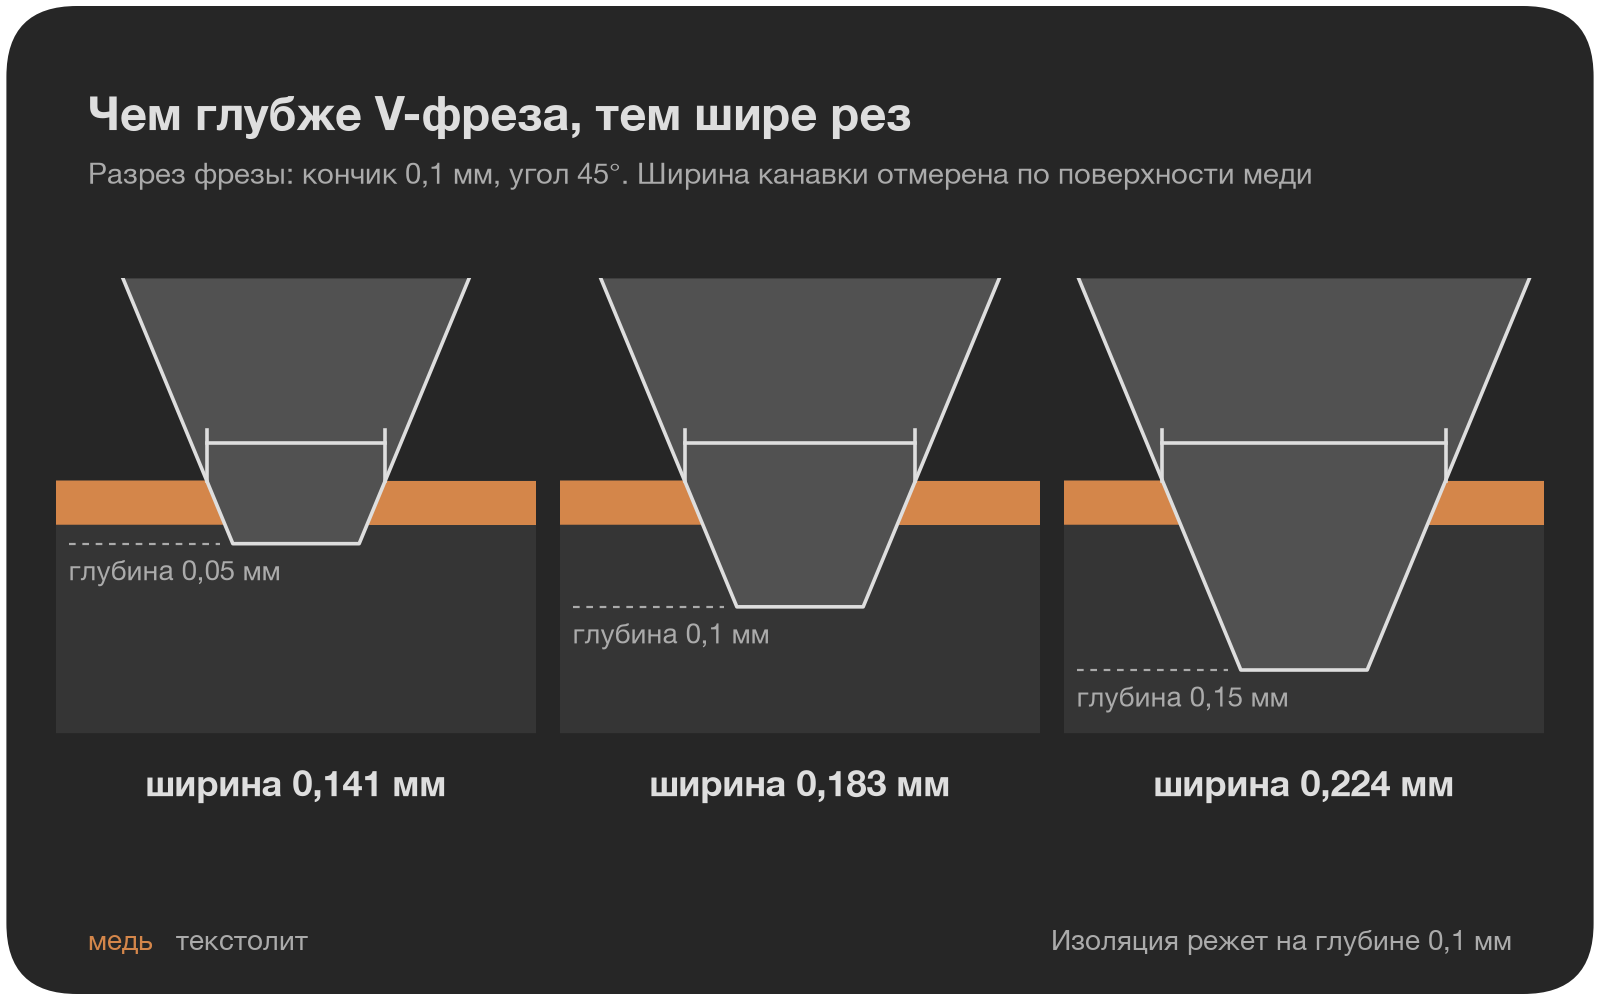
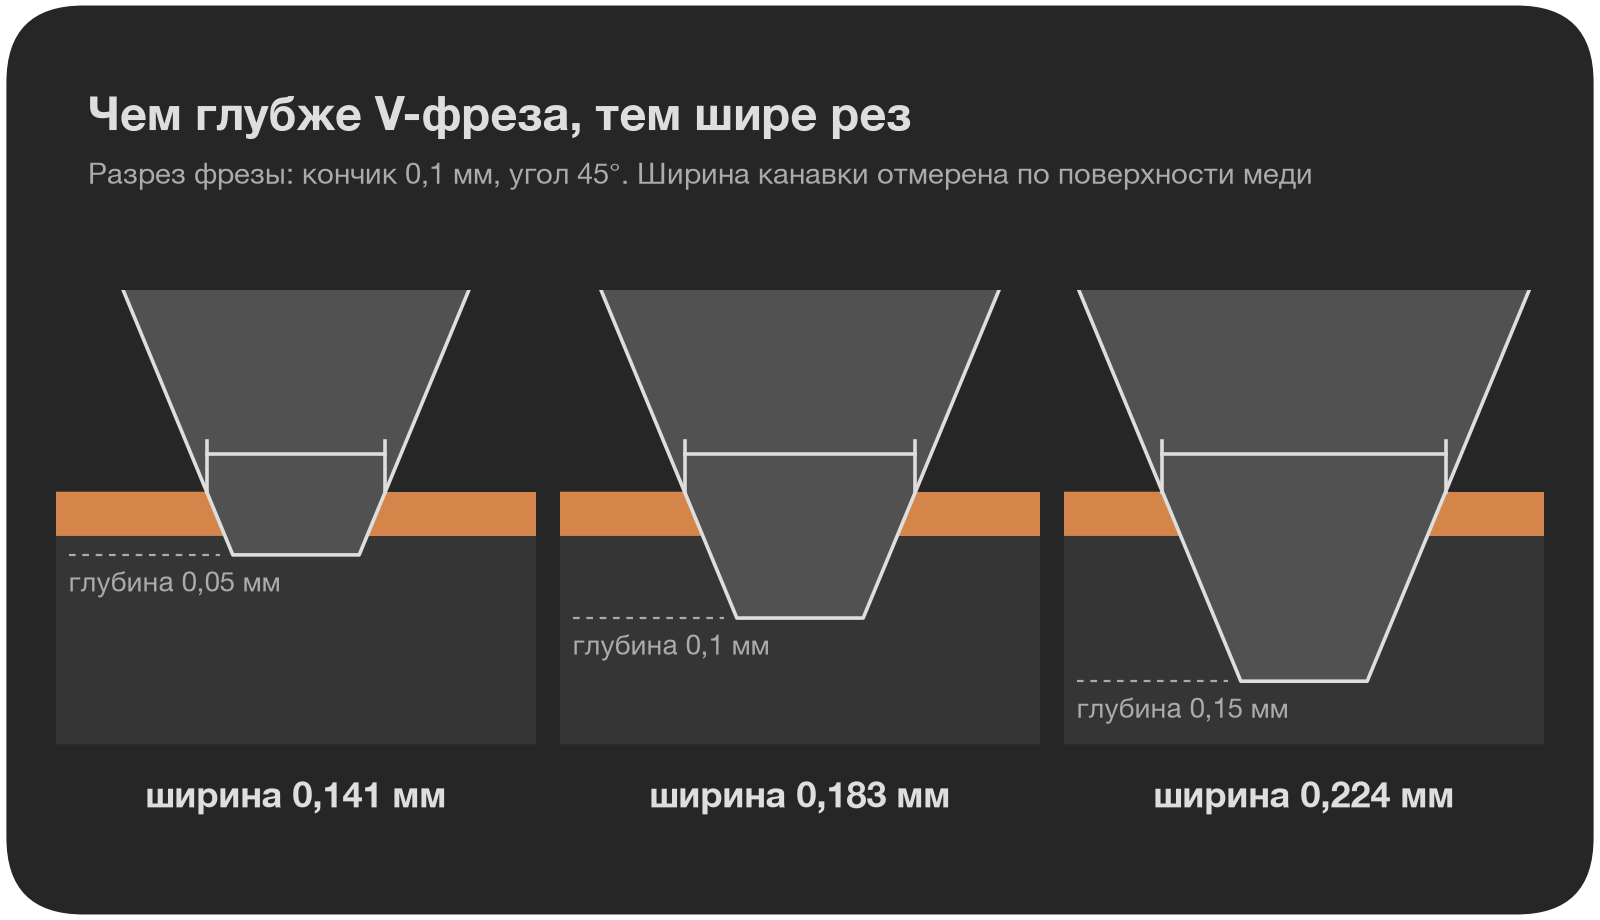
Статья: разрез фрезы без нижней строки

diff --git a/docs/article/figures.py b/docs/article/figures.py
@@ -202,16 +202,16 @@ def panel(ax, box, label):
 
 def fig_width():
     """Why the height matters: the V-bit at three depths, the groove it leaves at the copper surface."""
-    h = 5.0
+    h = 4.6
     fig = card(h, "Чем глубже V-фреза, тем шире рез",
                f"Разрез фрезы: кончик {ru(TIP)} мм, угол {ru(ANGLE, 0)}°. "
                "Ширина канавки отмерена по поверхности меди")
     t = math.tan(math.radians(ANGLE / 2))
     cu, half, top, low = 0.035, 0.19, 0.16, -0.2
-    # Two colours for the material, white for the marks; only the working depth in accent.
+    # Two colours for the material, white for the marks.
     FR4, CU = "#353535", "#d4864a"
     for i, d in enumerate((0.05, 0.1, 0.15)):
-        ax = fig.add_axes([0.035 + i * 0.315, 0.1, 0.3, 0.7])
+        ax = fig.add_axes([0.035 + i * 0.315, 0.04, 0.3, 0.7])
         ax.set_facecolor("none")
         w = cut_width(d)
         color = C["ink"]
@@ -242,10 +242,6 @@ def fig_width():
         ax.set_ylim(low - 0.07, top)
         ax.set_aspect("equal")
         ax.axis("off")
-    fig.text(0.055, 0.05, "медь", fontsize=10, color=CU)
-    fig.text(0.11, 0.05, "текстолит", fontsize=10, color=C["muted"])
-    fig.text(0.945, 0.05, "Изоляция режет на глубине 0,1 мм", ha="right",
-             fontsize=10, color=C["muted"])
     save(fig, "width.png")
 
 
